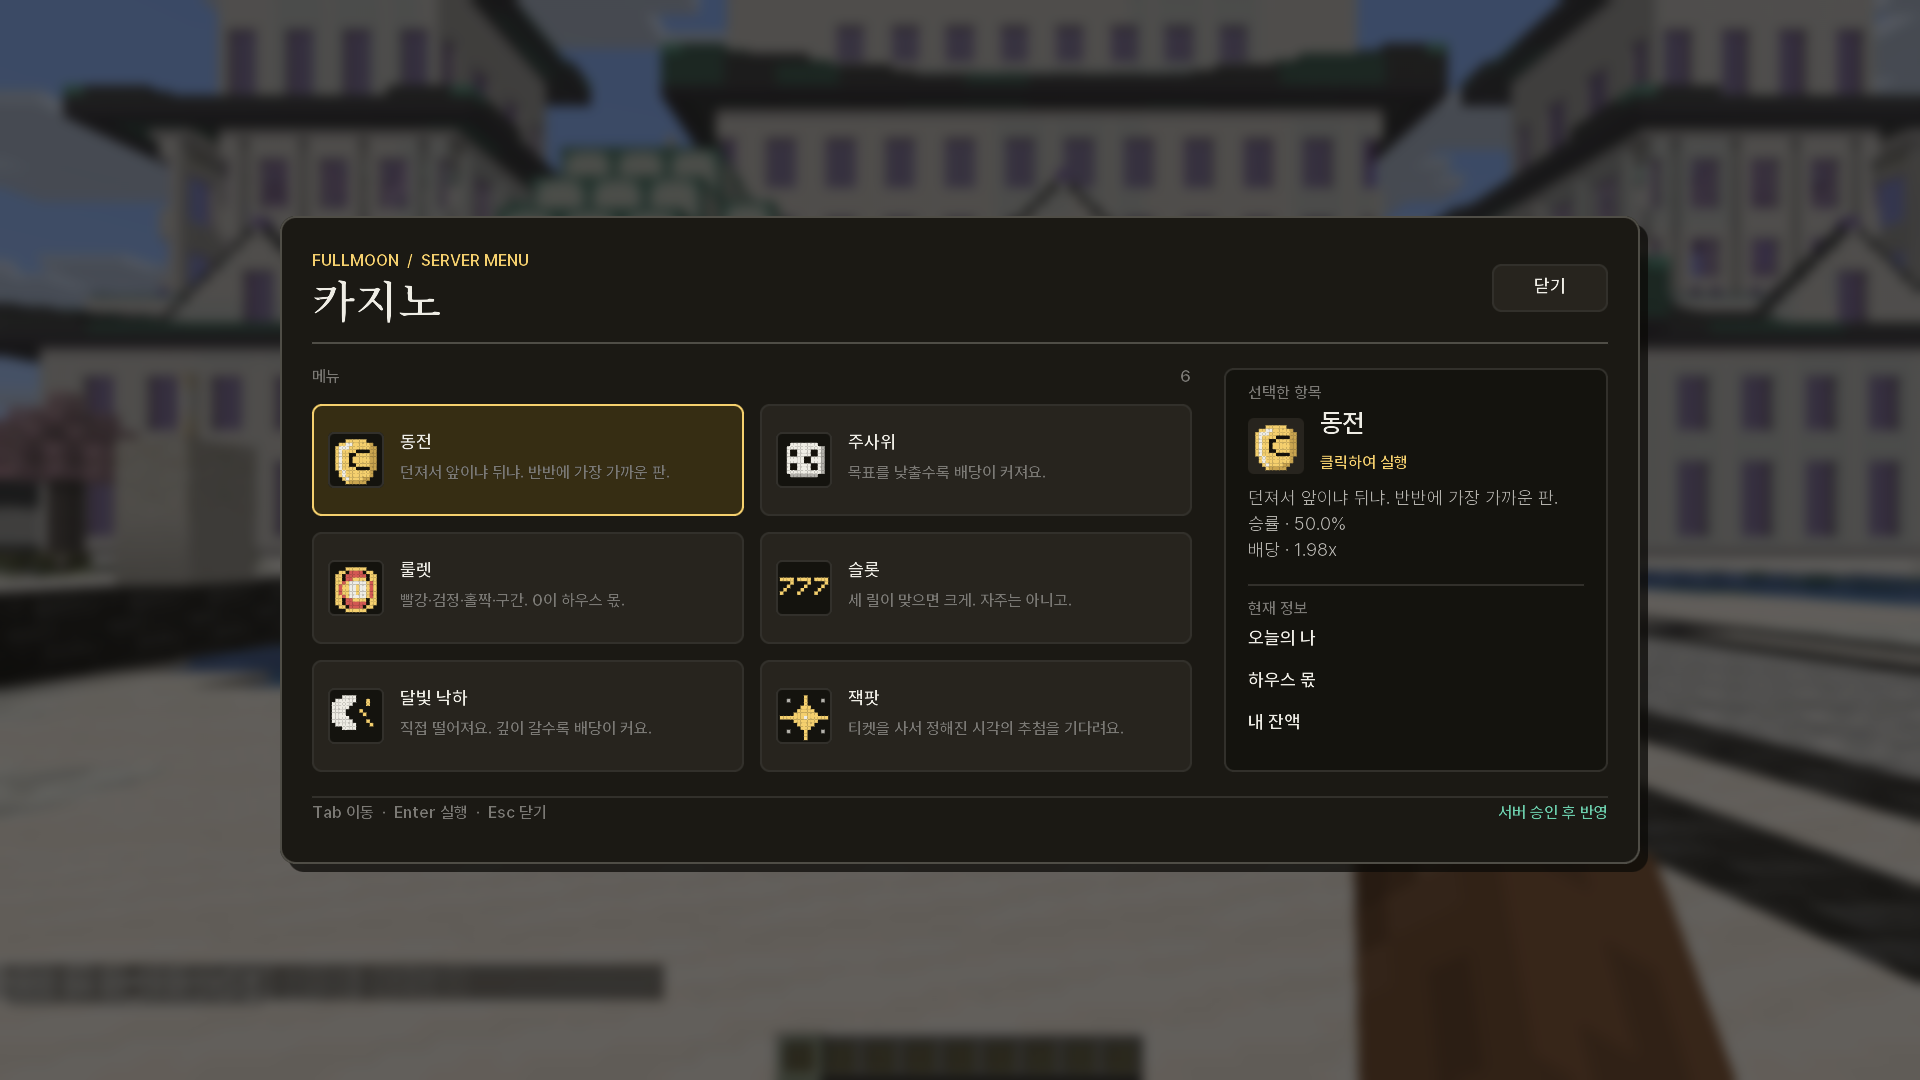
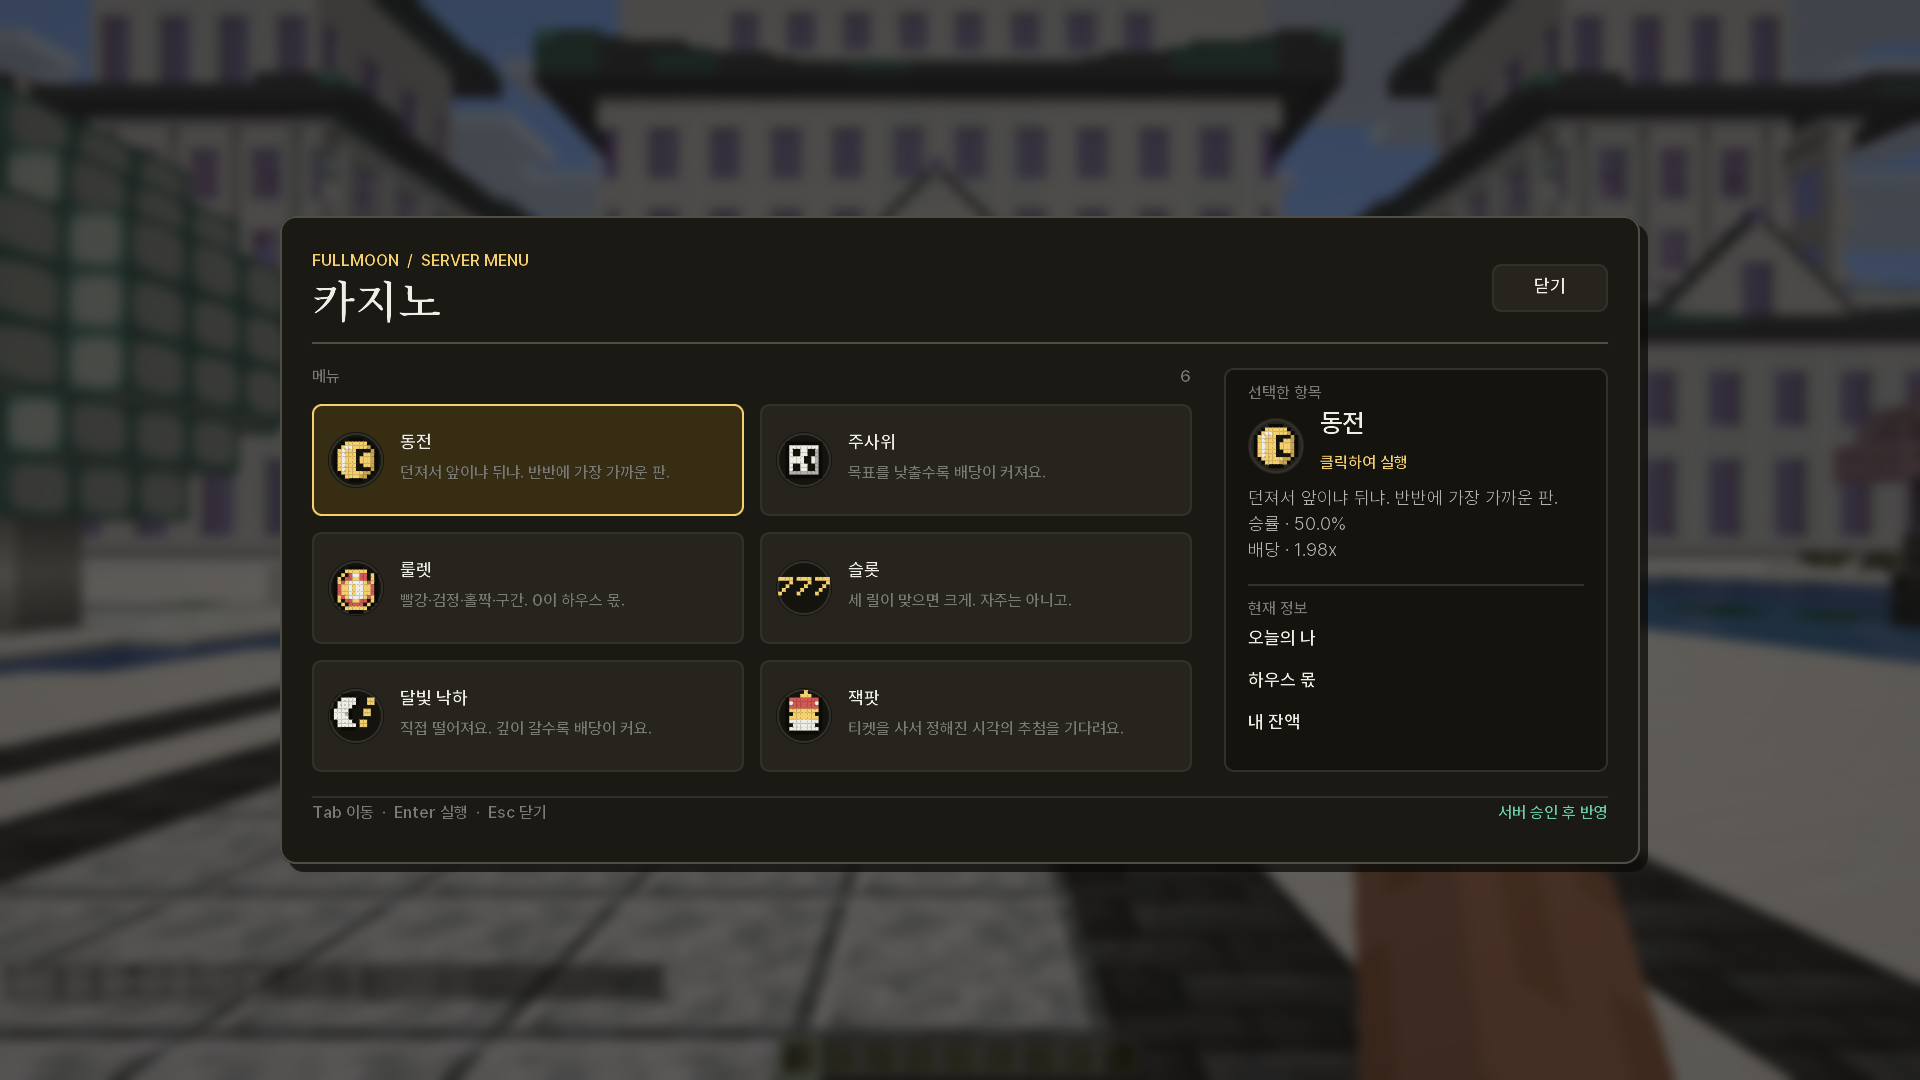
feat(i3): outline the casino sprites and seat them on chip discs
Flat pixel maps read as blobs at arm's length: a sprite without an outline
and a shaded edge is not the game's item art. Every silhouette now carries a
dark outline and a lit/shaded side, the square wells became chip discs so
the deck reads as a table, and the slot-machine sprite that the frames
caught reading as a face is triple seven again. Fourth capture of the
surface; evidence, audit and DEVLOG updated.

diff --git a/i3/mod/src/main/java/dev/fullmoon/client/menu/MenuIcons.java b/i3/mod/src/main/java/dev/fullmoon/client/menu/MenuIcons.java
@@ -6,65 +6,66 @@ import dev.fullmoon.client.render.Painter;
 /**
  * Hand-drawn 14×14 pixel marks for the casino's six games — the same idiom as
  * the vanilla HUD's own sprites, so they read as the game's craft rather than
- * chrome drawn on top of it. A raw item sprite says "block", not "game". The
- * server names the mark through the menu item's icon id; anything it does not
- * name falls back to the item render in {@link ServerMenuEntry}.
+ * chrome drawn on top of it. Every silhouette carries a dark outline and a
+ * shaded edge the way the game's item art does; a flat blob is not a sprite.
+ * The server names the mark through the menu item's icon id; anything it does
+ * not name falls back to the item render in {@link ServerMenuEntry}.
  */
 final class MenuIcons {
-    private static final float CELL_INSET = 0.86f;
+    private static final float CELL_INSET = 0.92f;
 
-    /** A gold coin with a milled rim and a crescent stamped in the middle. */
+    /** A gold coin: milled rim, top-left shine, crescent stamped in the face. */
     private static final String[] COIN = {
         "..............",
-        "....GGGGGG....",
-        "..GGWWGGGGGg..",
-        ".GWWWGGGGGGgg.",
-        ".GWGGGGddddgg.",
-        ".GWGGddGGGGgg.",
-        ".GWGGdGGGGGgg.",
-        ".GWGGdGGGGGgg.",
-        ".GWGGddGGGGgg.",
-        ".GWGGGGddddgg.",
-        "..GWGGGGGGGg..",
-        "..GWGGGGGGGg..",
-        "...GWGGGGgg...",
-        "....Gggggg....",
+        ".....kkkk.....",
+        "...kGGGGGGk...",
+        "..kGWWGGGGgk..",
+        ".kGWGGGddddgk.",
+        ".kGWGGGddGGgk.",
+        ".kGWGGGdGGGgk.",
+        ".kGWGGGdGGGgk.",
+        ".kGWGGGddGGgk.",
+        ".kGWGGGddddgk.",
+        "..kGGGGGGggk..",
+        "...kGGGGggk...",
+        ".....kkkk.....",
+        "..............",
     };
 
-    /** An ivory die showing five, shaded at its lower right. */
+    /** An ivory die showing five, shaded along its lower right. */
     private static final String[] DICE = {
         "..............",
         "..............",
-        "...WWWWWWWW...",
-        "..WWWWWWWWWWw.",
-        "..WddWWWWddWw.",
-        "..WddWWWWddWw.",
-        "..WWWWWddWWWw.",
-        "..WWWWWddWWWw.",
-        "..WddWWWWddWw.",
-        "..WddWWWWddWw.",
-        "..WWWWWWWWWWw.",
-        "...wwwwwwww...",
+        "..kkkkkkkkkk..",
+        "..kWWWWWWWWk..",
+        "..kWddWWddwk..",
+        "..kWddWWddwk..",
+        "..kWWWWddWwk..",
+        "..kWWWWddWwk..",
+        "..kWddWWddwk..",
+        "..kWddWWddwk..",
+        "..kwwwwwwwwk..",
+        "..kkkkkkkkkk..",
         "..............",
         "..............",
     };
 
-    /** A roulette wheel: gold rim, red cardinal and dark diagonal pockets, ivory hub. */
+    /** A roulette wheel: gold rim, red and dark pockets, ivory hub, white ball. */
     private static final String[] ROULETTE = {
         "..............",
-        "....GGGGGG....",
-        "..GGdRRRRdGG..",
-        ".GGdRRRRRRdGG.",
-        ".GGdRRGGGGdGG.",
-        ".GGRGWWWWWGRG.",
-        ".GRGGWWGWWGRG.",
-        ".GRGGWWGWWGRG.",
-        ".GRGGWWGWWGRG.",
-        ".GGRGWWWWWGRG.",
-        ".GGdRRGGGGdGG.",
-        ".GGdRRRRRRdGG.",
-        "..GGdRRRRdGG..",
-        "....GGGGGG....",
+        ".....kkkk.....",
+        "...kGGGGGGk...",
+        "..kGdRWWRRdGk.",
+        ".kGdRRGGRRdGk.",
+        ".kGRGWWWWGRGk.",
+        ".kRGGWGWWGGRk.",
+        ".kRGGWGWWGGRk.",
+        ".kRGGWGWWGGRk.",
+        ".kGRGWWWWGRGk.",
+        ".kGdRRGGRRdGk.",
+        "..kGdRRRRdGk..",
+        "...kGGGGGGk...",
+        ".....kkkk.....",
     };
 
     /** Triple seven across the payline. */
@@ -85,40 +86,40 @@ final class MenuIcons {
         "..............",
     };
 
-    /** The ivory moon with gold light streaking down past it. */
+    /** The moon with wagered coins streaking down past it. */
     private static final String[] MOONFALL = {
         "..............",
-        "...WWWW.......",
-        ".WWWWWW...G...",
-        "WWWWWW....G...",
-        "WWWWW.........",
-        "WWWW....G.....",
-        "WWWW.....G....",
-        "WWWWW.........",
-        "WWWWWW....G...",
-        ".WWWWWW....G..",
-        "...WWWW.......",
+        "...kkkk.......",
+        "..kWWWWk..GG..",
+        ".kWWWWWk..GG..",
+        ".kWWWWk.......",
+        "kWWWWk...GG...",
+        "kWWWwk...GG...",
+        "kWWWWk........",
+        ".kWWWWk.GG....",
+        ".kWWWWWkGG....",
+        "...kkkk.......",
         "..............",
         "..............",
         "..............",
     };
 
-    /** A four-point jackpot sparkle with a lit core and four sparks. */
+    /** A jackpot: three stacked chips under a spark. */
     private static final String[] JACKPOT = {
+        ".......G......",
+        "......GGG.....",
+        "..kRRRRRRRRk..",
+        "..kWRRRRRRWk..",
+        "..kRRRRRRRRk..",
+        "..kGGGGGGGGk..",
+        "..kdGGGGGGdk..",
+        "..kGGGGGGGGk..",
+        "..kWWWWWWWWk..",
+        "..kdWWWWWWdk..",
+        "..kWWWWWWWWk..",
+        "...kkkkkkkk...",
         "..............",
-        ".......G......",
-        "..w....G....w.",
-        ".......G......",
-        "......GGG.....",
-        ".....GGGGG....",
-        "....GGGGGGG...",
-        "GGGGGGGWGGGGGG",
-        "....GGGGGGG...",
-        ".....GGGGG....",
-        "......GGG.....",
-        "..w....G....w.",
-        ".......G......",
-        ".......G......",
+        "..............",
     };
 
     private MenuIcons() {}
@@ -160,6 +161,7 @@ final class MenuIcons {
             case 'w' -> Tokens.Color.INK_SECONDARY;
             case 'd' -> Tokens.Color.INK_ON_ACCENT;
             case 'R' -> Tokens.Color.STATUS_DANGER;
+            case 'k' -> Tokens.Color.SURFACE_VOID;
             default -> 0;
         };
     }

diff --git a/i3/mod/src/main/java/dev/fullmoon/client/menu/ServerMenuTile.java b/i3/mod/src/main/java/dev/fullmoon/client/menu/ServerMenuTile.java
@@ -57,12 +57,13 @@ final class ServerMenuTile extends Widget {
         int well = Math.min(ICON_WELL, box.h() - Tokens.Space.TIGHT);
         int left;
         if (well >= 12) {
-            int wellY = box.midY() - well / 2;
-            painter.fill(wellX, wellY, well, well, Tokens.Radius.SM,
-                Tokens.Color.SURFACE_SUNKEN);
-            painter.border(wellX, wellY, well, well, Tokens.Radius.SM,
+            // A chip disc, not a square well: the mark sits on the table.
+            float cx = wellX + well / 2f;
+            float cy = box.midY();
+            painter.dot(cx, cy, well / 2f, Tokens.Color.SURFACE_SUNKEN);
+            painter.ring(cx, cy, well / 2f - Tokens.Stroke.HAIR / 2f,
                 Tokens.Stroke.HAIR, Tokens.Color.LINE_HAIRLINE);
-            entry.drawIcon(painter, wellX, wellY, well);
+            entry.drawIcon(painter, wellX, (int) (cy - well / 2f), well);
             left = wellX + well + Tokens.Space.COZY;
         } else {
             left = wellX;

diff --git a/i3/mod/src/main/java/dev/fullmoon/client/menu/ServerMenuScreen.java b/i3/mod/src/main/java/dev/fullmoon/client/menu/ServerMenuScreen.java
@@ -166,7 +166,9 @@ public final class ServerMenuScreen extends SurfaceScreen {
             return;
         }
 
-        painter.fill(left, y, 28, 28, Tokens.Radius.SM, Tokens.Color.SURFACE_RAISED);
+        painter.dot(left + 14f, y + 14f, 14f, Tokens.Color.SURFACE_RAISED);
+        painter.ring(left + 14f, y + 14f, 14f - Tokens.Stroke.HAIR / 2f,
+            Tokens.Stroke.HAIR, Tokens.Color.LINE_HAIRLINE);
         entry.drawIcon(painter, left, y, 28);
         int copyX = left + 28 + Tokens.Space.COZY;
         int clipTop = Typeset.capTop(Tokens.Type.TITLE, y);

diff --git a/i3/docs/evidence/README.md b/i3/docs/evidence/README.md
@@ -351,7 +351,7 @@ Three defects were found by driving and looking at the launcher rather than by c
 
 | file | what it settles |
 | --- | --- |
-| `p11-menu-open-960x540.png` | A live coin-bridge session opened the casino menu over `fullmoon:v1`: brand eyebrow above the serif title, a two-column action deck where each game wears its own hand-drawn pixel mark — stamped coin, five-pip die, pocketed wheel, triple seven, the moon with falling light, a four-point sparkle — the context rail naming the first actionable item, and the keyboard footer. No ChestGUI and no raw block sprite anywhere in the frame. |
+| `p11-menu-open-960x540.png` | A live coin-bridge session opened the casino menu over `fullmoon:v1`: brand eyebrow above the serif title, a two-column action deck where each game wears its own outlined pixel sprite on a chip disc — stamped coin, five-pip die, pocketed wheel, triple seven, the moon with coins streaking past, a three-chip stack — the context rail naming the first actionable item, and the keyboard footer. No ChestGUI and no raw block sprite anywhere in the frame. |
 | `p11-menu-hover-960x540.png` | The pointer on `동전`: accent border and wash on the tile, and the context rail follows the hover — reading, not choosing. |
 | `p11-menu-refreshed-960x540.png` | One click later the client's `menu_action` slot 19 met the server's revision 1 snapshot: `동전` now chosen, `승률 · 50.0%` and `배당 · 1.98x` in the rail. The refresh is the server's answer, not a client prediction. |
 | `p11-menu-closed-960x540.png` | `menu_close` returns the player to the live world; the surface leaves nothing on screen. |
@@ -369,9 +369,9 @@ after the captures; nothing was installed on the production Oracle host.
 The marks are not the server's block sprites. A raw item render says "block", not "game", so the
 snapshot carries an optional `icon` id — the casino lobby names
 `fullmoon.casino.{coinflip,dice,roulette,slots,moonfall,jackpot}` — and the client draws each as
-a hand-drawn 14×14 pixel mark in the vanilla HUD's own idiom, falling back to the item render for
-any id it does not know. The field is presentation only; the protocol rules in `docs/BRIDGE.md`
-say so.
+a hand-drawn 14×14 pixel sprite, outlined and shaded like the game's own item art, seated on a
+chip disc so the deck reads as a table. Unknown ids fall back to the item render. The field is
+presentation only; the protocol rules in `docs/BRIDGE.md` say so.
 
 Two defects were found only in the rendered frames of the first redesign session and corrected
 before these frames were taken: the display title overprinted the brand eyebrow (the P0 class of

diff --git a/i3/docs/evidence/p11-hallmark-audit.md b/i3/docs/evidence/p11-hallmark-audit.md
@@ -51,7 +51,7 @@ page-structure gate is N/A. Every applicable answer is **No**.
 | 27 | N/A | The surface has no motion to reduce. |
 | 28 | N/A | There is no video. |
 | 29 | N/A | The blurred stratum is Minecraft's own background blur over the live world; no aurora or mesh gradient. |
-| 30 | No | The six casino games draw as hand-drawn 14×14 pixel marks — a stamped coin, a five-pip die, a pocketed wheel, triple seven, the moon with falling light, a four-point sparkle — named by the server's optional icon id; unknown ids fall back to real item renders. No emoji. |
+| 30 | No | The six casino games draw as hand-drawn 14×14 pixel sprites — outlined and shaded the way the game's own item art is — each seated on a chip disc: a stamped coin, a five-pip die, a pocketed wheel, triple seven, the moon with coins streaking past, a stack of three chips. Named by the server's optional icon id; unknown ids fall back to real item renders. No emoji. |
 | 31 | N/A | No generated illustration or Lottie asset. |
 | 32 | No | An immutable, revision-stamped server snapshot rendered as a native screen is specific to this product's bridge contract. |
 | 33 | N/A | No decorative SVG figure. |

diff --git a/i3/docs/DEVLOG.md b/i3/docs/DEVLOG.md
@@ -1144,3 +1144,10 @@ field is declared presentation-only in `docs/BRIDGE.md`. The same review that ca
 render defects above also probed the layout arithmetic past the captured sizes: the icon well now
 scales with its card, and a capped frame shrinks the deck gap instead of collapsing cards to
 zero, so a 54-slot menu at 320×240 stays clickable — both guarded by layout tests.
+
+The sprites took three passes to earn their place. The first flat pixel maps read as blobs at
+arm's length — a sprite without an outline and a shaded edge is not the game's item art — so every
+silhouette gained a dark outline and a lit/shaded side, and the square wells became chip discs so
+the deck reads as a table rather than a list of buttons. A slot-machine sprite was drawn and
+discarded when the frames showed it reading as a face; triple seven says the game without the
+lever. The committed frames are the fourth capture of the surface.
